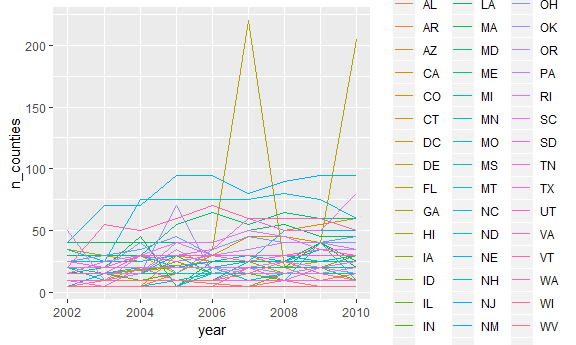
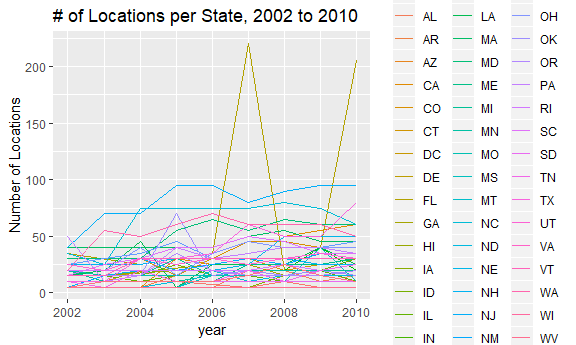
more details size of font etc.

diff --git a/p8105_hw3_cac2225.md b/p8105_hw3_cac2225.md
@@ -28,14 +28,14 @@ brfss_smart2010 = brfss_smart2010
 library(tidyverse)
 ```
 
-    ## -- Attaching packages --------------------------------------------------------------------------------------------------- tidyverse 1.2.1 --
+    ## -- Attaching packages ------------------------------ tidyverse 1.2.1 --
 
     ## v ggplot2 3.0.0     v purrr   0.2.5
     ## v tibble  1.4.2     v dplyr   0.7.6
     ## v tidyr   0.8.1     v stringr 1.3.1
     ## v readr   1.1.1     v forcats 0.3.0
 
-    ## -- Conflicts ------------------------------------------------------------------------------------------------------ tidyverse_conflicts() --
+    ## -- Conflicts --------------------------------- tidyverse_conflicts() --
     ## x dplyr::filter() masks stats::filter()
     ## x dplyr::lag()    masks stats::lag()
 
@@ -54,7 +54,7 @@ library(ggridges)
     ## 
     ##     scale_discrete_manual
 
-To clean the dataset, the variable names will be cleaned using the janitor package, function clean\_names. Change the variable names as needed. The data is filtered based on topic, Overall Health, and responses Excellent to Poor. The response variable will be turned into a factor variable and its responses ordered.
+To clean the dataset, the variable names will be cleaned using the janitor package, function clean\_names. The data is filtered based on topic, Overall Health, and responses Excellent to Poor. The response variable will be turned into a factor variable and its responses ordered.
 
 ``` r
 brfss_smart2010 = janitor::clean_names(brfss_smart2010)
@@ -106,7 +106,12 @@ plot_spaghetti = filtered_brfss_smart2010 %>%
     ## 3140, 4577, 4578, 4579, 4580, 4581, ...].
 
 ``` r
-ggplot(plot_spaghetti, aes(x = year, y = n_counties, color = state)) + geom_line()
+ggplot(plot_spaghetti, aes(x = year, y = n_counties, color = state)) + 
+  geom_line() + 
+  labs(
+    title = "# of Locations per State, 2002 to 2010",
+    y = "Number of Locations"
+  )
 ```
 
 <img src="p8105_hw3_cac2225_files/figure-markdown_github/creating spaghetti plot number locations in each state, 2002 to 2010-1.png" width="90%" />
@@ -128,59 +133,19 @@ Dataset was filtered by year (2002, 2006 and 2010), response (Excellent) and loc
 ``` r
 plot_avg_response = filtered_brfss_smart2010 %>% 
   group_by(year, locationabbr, response) %>% 
-  summarize(proportion_response = mean(data_value))
-
-plot_excellent = plot_avg_response %>% 
-  filter(response == "Excellent") %>% 
-  ggplot(aes(x = year, y = proportion_response, color = locationabbr)) + 
-  geom_line() + 
-  theme(legend.position = "none") + 
-  labs(y = "Excellent Responses")
-
-plot_very_good = plot_avg_response %>% 
-  filter(response == "Very good") %>% 
-  ggplot(aes(x = year, y = proportion_response, color = locationabbr)) + 
-  geom_line() + 
-  theme(legend.position = "none") + 
-  labs(y = "Very good Responses")
-  
-plot_good = plot_avg_response %>% 
-  filter(response == "Good") %>% 
-  ggplot(aes(x = year, y = proportion_response, color = locationabbr)) + 
-  geom_line() + 
-  theme(legend.position = "right") + 
-  labs(y = "Good Responses")
-  
-plot_fair = plot_avg_response %>% 
-  filter(response == "Fair") %>% 
-  ggplot(aes(x = year, y = proportion_response, color = locationabbr)) + 
-  geom_line() + 
-  theme(legend.position = "none") + 
-  labs(y = "Fair Responses")
-
-plot_poor = plot_avg_response %>% 
-  filter(response == "Poor") %>% 
-  ggplot(aes(x = year, y = proportion_response, color = locationabbr)) + 
-  geom_line() + 
-  theme(legend.position = "none") + 
-  labs(y = "Poor Responses")
-
-(plot_excellent)/(plot_very_good)/(plot_good)/(plot_fair)/(plot_poor)
+  summarize(proportion_response = mean(data_value)) %>% 
+  ggplot(aes(x = year, y = proportion_response)) + 
+  facet_grid(. ~ response) + 
+  geom_violin() + 
+  labs(
+    title = "Five Panel Plot per Response type - distribution of State-level averages over time",
+    y = "Proportion of each Response"
+  ) + 
+  theme(axis.text.x = element_text(angle = 0, vjust = 0.5, hjust = 1), text = element_text(size = 7)) + 
+  theme(plot.title = element_text(size = 5))
 ```
 
-    ## Warning: Removed 3 rows containing missing values (geom_path).
-
-    ## Warning: Removed 2 rows containing missing values (geom_path).
-
-    ## Warning: Removed 2 rows containing missing values (geom_path).
-
-    ## Warning: Removed 1 rows containing missing values (geom_path).
-
-    ## Warning: Removed 1 rows containing missing values (geom_path).
-
-<img src="p8105_hw3_cac2225_files/figure-markdown_github/avg proportion of each response per state-1.png" width="90%" />
-
-The mean value of the proportion of each response was generated using group by and summarize functions, grouped by year and state and response type. Five different plots were generated based on this dataset, seperated by response type. Using patchwork, a five panel plot per response type was created, each panel contained a plot of proportion of responses over the years, and the distribution was shown for each state.
+The mean values of the proportion of each response was generated using group by and summarize functions, grouped by year and response type. Using facet, a five panel plot per response type was created, each panel contained a violin plot of proportion of responses over the years. Thus over the years, the majority of the proportion of excellent responses were mainly around 20. The max proportion was about 30 and min proportion was about 12 in 2006. Over the years, the majority of the proportion of very good responses were around 35, with max proportion at around 43 and min proportion at around 26 in 2006. The majority of the proportion of good responses were around 30, with max proportion at 36 and min at 28 in 2006. The majority of the proportion of fair responses were around 10, with max at 27, min at 7 in 2006. The majority of the proportion of poor responses were around 4, with min at 3, max at 9 in 2006.
 
 Problem 2
 ---------
@@ -208,9 +173,14 @@ names(instacart)
     ## [13] "department_id"          "aisle"                 
     ## [15] "department"
 
-To perform a preliminary review of the dataset, the names of the variables are first listed, by calling the names.
+``` r
+instacart = instacart %>% 
+  mutate(order_dow = recode(order_dow, `0` = "Sunday", `1` = "Monday", `2` = "Tuesday", `3` = "Wednesday", `4` = "Thursday", `5` = "Friday", `6` = "Saturday"))
+```
 
-It seems that there are orders that are made with descriptions of the orders using variables such as giving each order an ID number (order\_id), listing the day (order\_dow) and hour (order\_hour\_of\_day) the order was made, days since the prior order was made (days\_since\_prior\_order) etc. Order\_dow has values from 0 to 6, each number corresponding to a day of the week. The orders consist of products which are assigned product ids (product\_id), described by what ailse and department they came from (aisle, aisle\_id, department, department\_id), ordered by which user (user\_id), and the product's name (product\_name). Key variables would include order\_id, user\_id, product\_id, department\_id and aisle\_id, since by having these variables, one can determine important information, such as what product was ordered by whom and where that product came from. The data structure appears tidy since the variables are listed as column names and corresponding values are listed under each variable.
+To perform a preliminary review of the dataset, the names of the variables are first listed, by calling the names. The variable names all appear to be in lower snakecase. However, the names of the order\_dow values are recoded from numerals to actual names of the days of the week.
+
+It seems that there are orders that are made with descriptions of the orders using variables such as giving each order an ID number (order\_id), listing the day (order\_dow) and hour (order\_hour\_of\_day) the order was made, days since the prior order was made (days\_since\_prior\_order) etc. Order\_dow has values from 0 to 6, each number corresponding to a day of the week, which have been recoded into actual days of the week. The orders consist of products which are assigned product ids (product\_id), described by what ailse and department they came from (aisle, aisle\_id, department, department\_id), ordered by which user (user\_id), and the product's name (product\_name). Key variables would include order\_id, user\_id, product\_id, department\_id and aisle\_id, since by having these variables, one can determine important information, such as what product was ordered by whom and where that product came from. The data structure appears tidy since the variables are listed as column names and corresponding values are listed under each variable.
 
 To describe the size of the dataset, the number of observations and number of variables are 1384617, 15.
 
@@ -261,12 +231,17 @@ orders_count = instacart %>%
 
 ggplot(orders_count, aes(fct_reorder(aisle, desc(total_order_count)), total_order_count, fill = department)) + 
   geom_bar(stat = "identity") + 
-  theme(axis.text.x = element_text(angle = 90, vjust = 0.5, hjust = 1), text = element_text(size = 7))
+  theme(axis.text.x = element_text(angle = 90, vjust = 0.5, hjust = 1), text = element_text(size = 5)) + 
+  labs(
+    title = "Most popular aisles - based on order count",
+    x = "Aisle Name",
+    y = "Number of orders"
+  )
 ```
 
 <img src="p8105_hw3_cac2225_files/figure-markdown_github/number ordered items per aisle-1.png" width="90%" />
 
-A subset of data is generated, counting the total number of items ordered from each aisle, using the group\_by and summarise functions. Using ggplot, the subset of data is plotted into a bar chart, with the aisles on the x axis and the total orders count on the y axis. The aisles are ordered and grouped by department id, with different colors representing different departments.
+A subset of data is generated, counting the total number of items ordered from each aisle, using the group\_by and summarise functions. Using ggplot, the subset of data is plotted into a bar chart, with the aisles on the x axis and the total orders count on the y axis. The aisles are ordered from most to least orders, and with different colors representing different departments. The aisle that received the most orders is fresh vegetables with approximately 150,000 orders, and the aisle withthe least orders is beauty.
 
 ``` r
 most_popular_products = instacart %>% 
@@ -287,30 +262,29 @@ instacart %>%
   knitr::kable(digits = 1)
 ```
 
-| product\_name    |     0|     1|     2|     3|     4|     5|     6|
-|:-----------------|-----:|-----:|-----:|-----:|-----:|-----:|-----:|
-| Coffee Ice Cream |  13.8|  14.3|  15.4|  15.3|  15.2|  12.3|  13.8|
-| Pink Lady Apples |  13.4|  11.4|  11.7|  14.2|  11.6|  12.8|  11.9|
+| product\_name    |  Friday|  Monday|  Saturday|  Sunday|  Thursday|  Tuesday|  Wednesday|
+|:-----------------|-------:|-------:|---------:|-------:|---------:|--------:|----------:|
+| Coffee Ice Cream |    12.3|    14.3|      13.8|    13.8|      15.2|     15.4|       15.3|
+| Pink Lady Apples |    12.8|    11.4|      11.9|    13.4|      11.6|     11.7|       14.2|
 
 A 2x7 table is formed from the information filtered and summarized from the original dataset. Filter was used to extract information on the products pink lady apples and coffee ice cream. Group\_by and summarise were used to calculate the mean hour of the day that which these products are order, by day of the week. Spread and knit were used to form the final 2x7 table. Looking at the table, for Coffee Ice Cream, the earliest mean time of the day the product is ordered is on Fridays (day 5) at 12.3 The latest time it's ordered is on Tuesday (day 2) at 15.4. For Pink Lady Apples, the earliest this product is ordered is on average Mondays (day1) at 11.4 and latest on average on Sundays at 13.4.
 
 Problem 3
 =========
 
-The dataset is first loaded.
+The dataset is first loaded and the variables are viewed. The variable names are all in lower snake case thus they are not modified.
 
 ``` r
 ny_noaa = ny_noaa
 ```
 
-The ny\_noaa dataset consists of seven variables that describe weather station (id), amount of precipitation (prcp), amount of snowfall and depth (snow and snwd), temperature (tmax and tmin) and date (date). The total number of observation rows and number of columns are 2595176, 7. Key variables would be id and date, since these provide specific identification for each observation. The dataset is tidy since each variable is its own seperate column. The date column could be further seperated into month, year and day.
+The ny\_noaa dataset consists of seven variables that describe weather station (id), amount of precipitation (prcp), amount of snowfall and depth (snow and snwd), temperature (tmax and tmin) and date (date). The total number of observation rows and number of columns are 2595176, 7. Key variables would be id and date, since these provide specific identification for each observation. The dataset is tidy since each variable is its own seperate column, however the date column could be further seperated into month, year and day.
 
 Each weather station might only collect a certain subset of variables, thus there is missing data. Missing data could cause an issue when we looking for trends, skewing or hiding any potential relationships that should normally appear in the data/plot visualizations.
 
 ``` r
 ny_noaa = ny_noaa %>% 
-  separate(date, into = c("year", "month", "day"), sep = "-" ) %>% 
-  mutate(prcp = as.numeric(prcp)/10,
+  separate(date, into = c("year", "month", "day"), sep = "-" ) %>% mutate(prcp = as.numeric(prcp)/10,
          tmin = as.numeric(tmin)/10,
          tmax = as.numeric(tmax)/10)
 ```
@@ -354,14 +328,22 @@ plot_mean_max_temp = ny_noaa %>%
 Looking at the scatterplot produced, the cluster of points only occurs amongst a certain subset of stations. Thus confirming that only certain stations collect certain datapoints/information - in this case only certain stations collected termperature while the rest had missing data. In January, the mean max temperatures are all in the lower range, varying from -10 to 10 degrees Celsius. There are a few outliers with temperatures lower than -10 degrees. In July, the mean max temperatures are all in the higher range, varying from 20 to 30 degrees, with a few outliers below 20 degrees.
 
 ``` r
-plot_temp = ny_noaa %>% ggplot(aes(x = tmin, y = tmax)) + geom_smooth(se = FALSE)
+plot_temp = ny_noaa %>% ggplot(aes(x = tmin, y = tmax)) + geom_smooth(se = FALSE) + 
+  labs(
+    title = "Plot of t-min versus t max"
+  )
 
-plot_snow = ny_noaa %>% 
+plot_snow_v = ny_noaa %>% 
   filter(snow > 0, snow < 100) %>% 
-  ggplot(aes(x = year, y = snow)) +
-  geom_violin()
+  ggplot(aes(y = snow, x = year)) + 
+  geom_violin() + 
+  labs(
+    title = "Distribution of Snowfall greater than 0 mm and less than 100 mm, for each year"
+  ) + 
+  theme(plot.title = element_text(size = 7)) + 
+  theme(axis.text.x = element_text(angle = 90, vjust = 0.5, hjust = 1), text = element_text(size = 5))
 
-(plot_temp)/(plot_snow)
+(plot_temp)/(plot_snow_v)
 ```
 
     ## `geom_smooth()` using method = 'gam' and formula 'y ~ s(x, bs = "cs")'
@@ -370,4 +352,4 @@ plot_snow = ny_noaa %>%
 
 <img src="p8105_hw3_cac2225_files/figure-markdown_github/plot tmax vs t min-1.png" width="90%" />
 
-I created a two panel plot with a linear graph of tmin versus tmax on top and a violin plot of snowfall distribution greater than 0 mm and less than 100 mm for each year on the bottom panel. The linear plot shows that as t min increases, so does t max, as expected, since in the warmer months, the minimum and maximum temperatures are expected to increase. While in the colder months, both tmax and tmin would decrease. For each year, the distribution of snowfall seems similar. Most of the snowfall received occurs between 0 to 25 mm. There are measurements of snowfall clustering around 50 and 75 as well, while the larger amounts of snowfall taper off at 100 mm.
+I created a two panel plot with a line graph of tmin versus tmax on top and violin graphs of snowfall distribution greater than 0 mm and less than 100 mm for each year on the bottom panel. The linear plot shows that as t min increases, so does t max, as expected, since in the warmer months, the minimum and maximum temperatures are expected to increase. While in the colder months, both tmax and tmin would decrease. For each year, the distribution of snowfall seems similar. Most of the snowfall received occurs between 0 to 25 mm. There are measurements of snowfall clustering around 50 and 75 as well, while the larger amounts of snowfall taper off at 100 mm.
